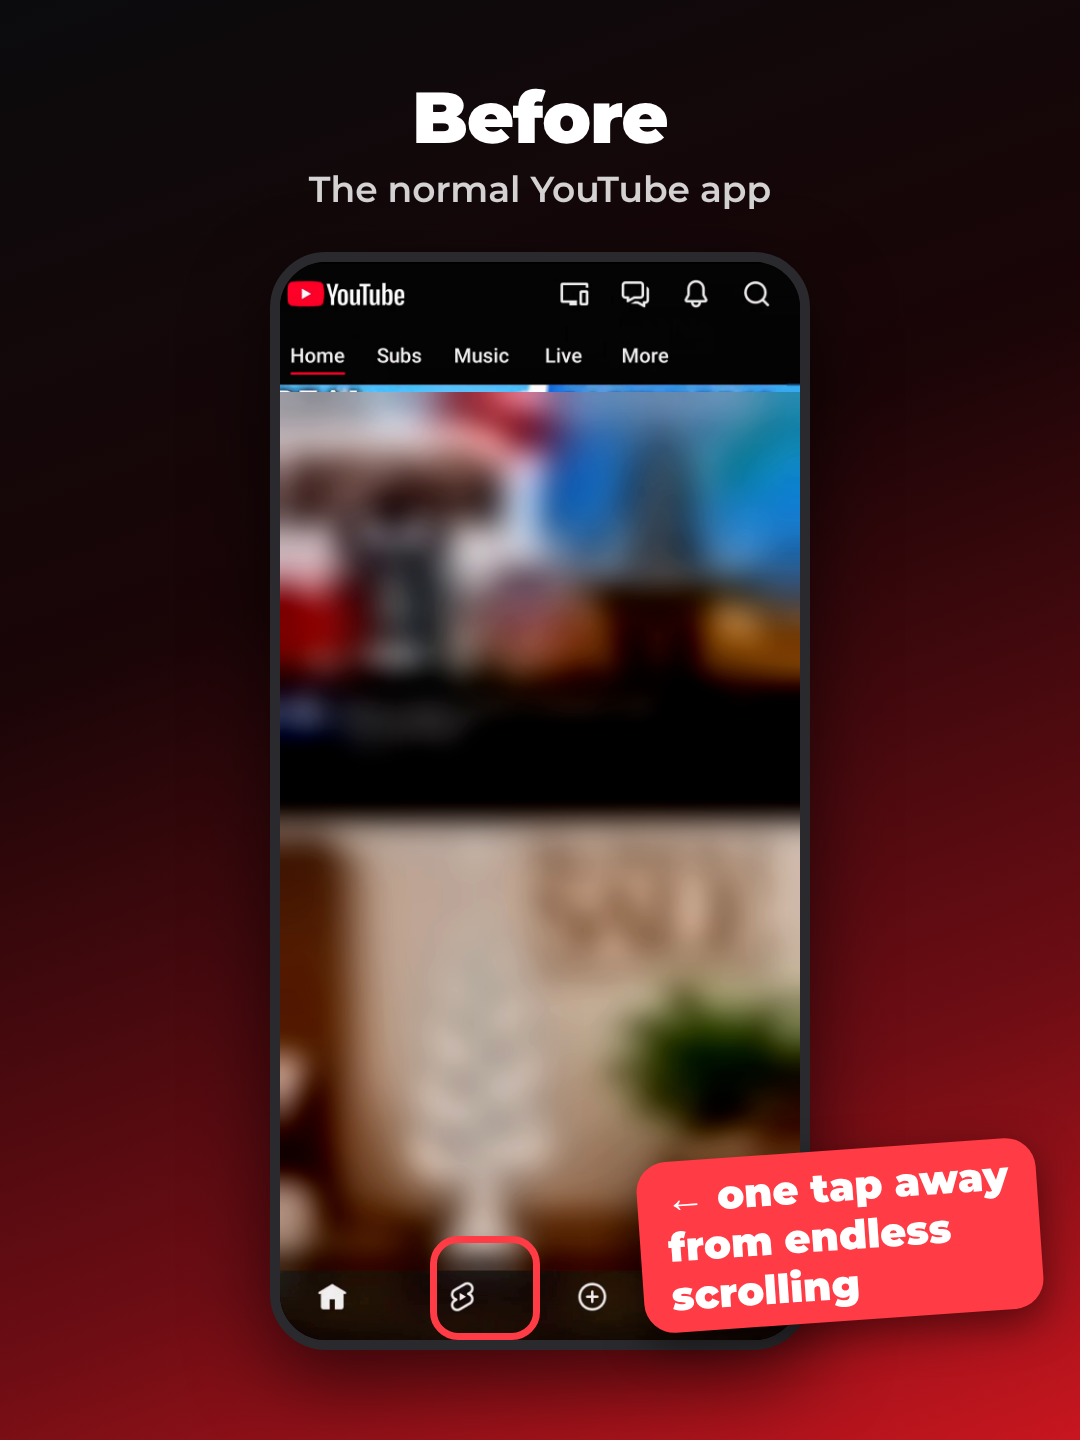
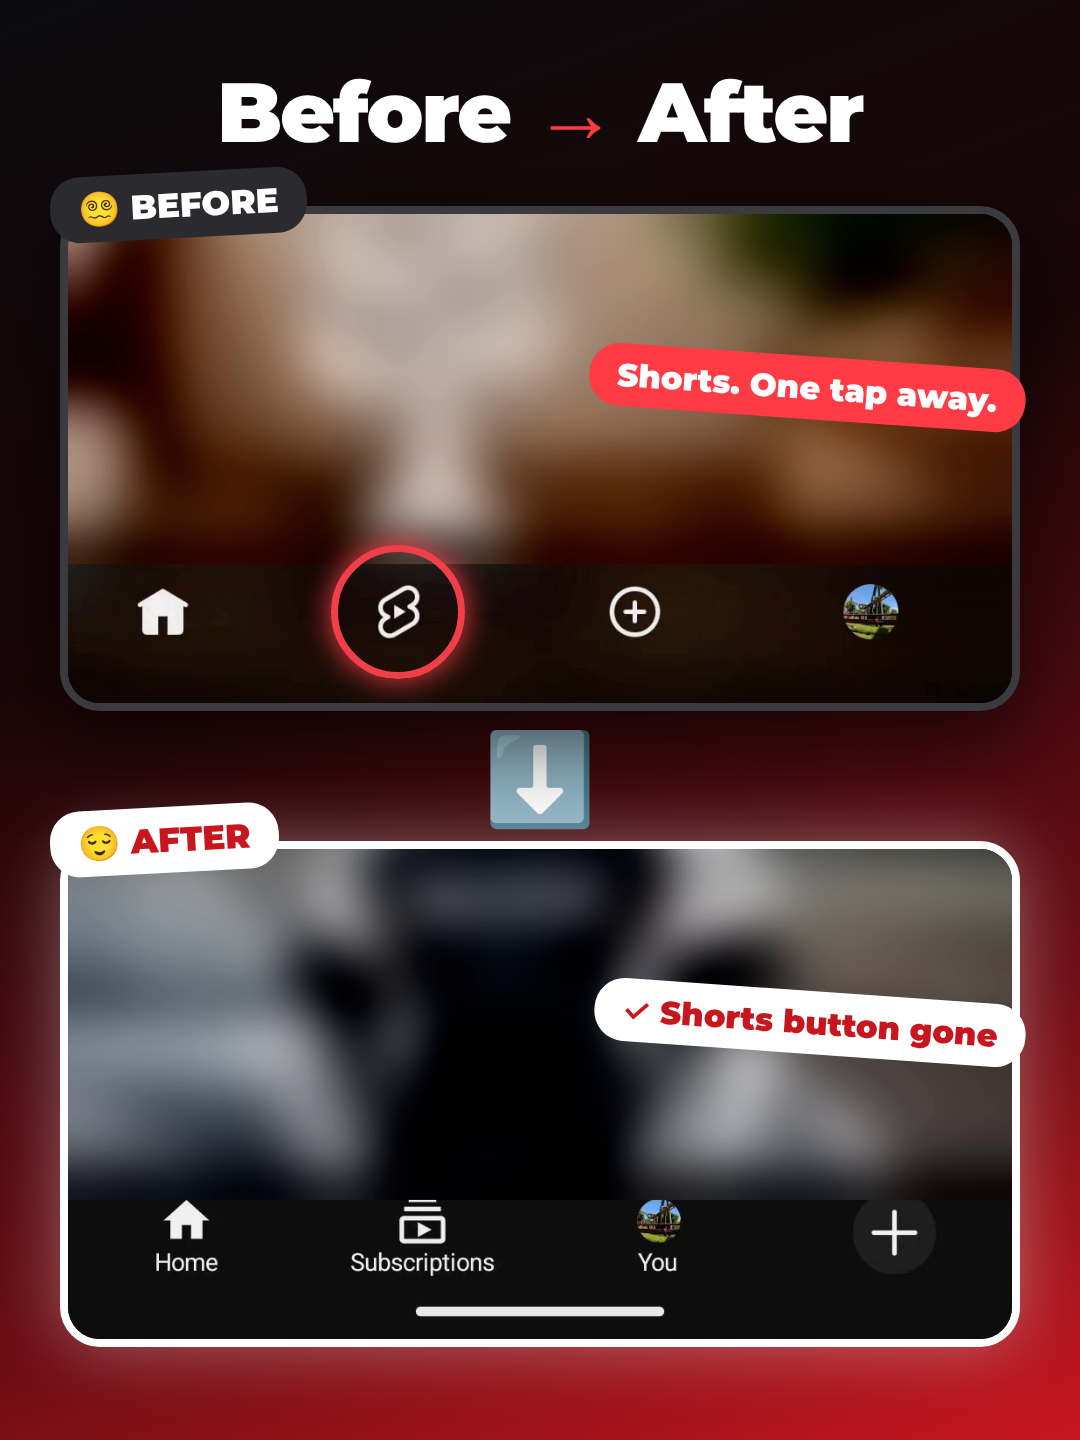
Marketing carousel: simpler slide 2, before/after on one slide, circle fixed
Claude-Session: https://claude.ai/code/session_01YU23RwEqoDKe6tHmapC4V3

diff --git a/marketing/carousel-android/slides.html b/marketing/carousel-android/slides.html
@@ -40,46 +40,37 @@ h2{font-weight:900;font-size:72px;line-height:1.05;text-align:center;letter-spac
 </section>
 <!-- 2 -->
 <section class="s" id="s2">
- <div style="flex:.6"></div>
- <div class="pill">WHAT MOST PEOPLE TRY</div>
- <div style="height:50px"></div>
- <h2 style="font-size:84px">“Show fewer Shorts”</h2>
- <div style="height:30px"></div>
- <div class="sub">Tap ⋮ on a Shorts shelf →<br>“Show fewer Shorts”.</div>
- <div style="height:70px"></div>
- <div class="card">
-  <div class="row"><div class="x">✕</div>Hides one shelf on your feed</div>
-  <div class="row"><div class="x">✕</div>The Shorts button stays in the bottom bar</div>
-  <div class="row"><div class="x">✕</div>One tap and you're scrolling again</div>
- </div>
- <div style="height:90px"></div>
- <h2 style="font-size:70px">It helps a little.<br><span class="red">It doesn't fix it.</span></h2>
  <div style="flex:1"></div>
+ <div class="sub" style="font-size:44px;color:#fff;font-weight:800">YouTube's only option:</div>
+ <div style="height:40px"></div>
+ <div class="btn" style="font-size:56px;background:rgba(255,255,255,.1);color:#fff;border:3px solid rgba(255,255,255,.35)">“Show fewer Shorts”</div>
+ <div style="height:110px"></div>
+ <div style="font-size:150px;line-height:1">❌</div>
+ <div style="height:40px"></div>
+ <h1 style="font-size:92px">The Shorts button<br><span class="red">stays.</span></h1>
+ <div style="flex:1.2"></div>
 </section>
 <!-- 3 -->
-<section class="s" id="s3" style="padding-top:80px">
- <h2>Before</h2>
- <div style="height:10px"></div>
- <div class="sub" style="font-size:36px">The normal YouTube app</div>
- <div style="height:40px"></div>
- <div class="phone" style="width:540px"><img src="before.png">
-  <div style="position:absolute;left:150px;bottom:0px;width:110px;height:104px;border:7px solid #ff3b45;border-radius:28px"></div>
+<section class="s" id="s3" style="padding:70px 60px 60px">
+ <h1 style="font-size:84px">Before <span class="red">→</span> After</h1>
+ <div style="height:50px"></div>
+ <div style="position:relative;width:960px">
+  <div class="tag" style="position:absolute;left:-10px;top:-34px;z-index:3;background:#2b2b2f;color:#fff;font-size:34px;transform:rotate(-3deg)">😵💫 BEFORE</div>
+  <div class="phone" style="width:960px;border-radius:40px;border:8px solid #3a3a3f;filter:saturate(.9)"><img src="b_crop.png">
+   <div style="position:absolute;left:263px;top:331px;width:134px;height:134px;border:7px solid #ff3b45;border-radius:50%;box-shadow:0 0 30px #ff3b45"></div>
+  </div>
+  <div class="tag" style="position:absolute;right:-6px;top:150px;z-index:3;background:#ff3b45;color:#fff;font-size:32px;transform:rotate(4deg)">Shorts. One tap away.</div>
  </div>
- <div class="tag" style="left:640px;top:1150px;background:#ff3b45;color:#fff;transform:rotate(-4deg);font-size:40px;box-shadow:0 14px 40px rgba(0,0,0,.5)">← one tap away<br>from endless<br>scrolling</div>
-</section>
-<!-- 4 -->
-<section class="s" id="s4" style="padding-top:80px">
- <h2>After</h2>
- <div style="height:10px"></div>
- <div class="sub" style="font-size:36px">Same app, with F*ck Shorts</div>
- <div style="height:40px"></div>
- <div class="phone" style="width:540px"><img src="after.png">
-  <div style="position:absolute;left:8px;right:8px;bottom:0px;height:104px;border:7px solid #fff;border-radius:28px"></div>
+ <div style="font-size:90px;line-height:1;margin:22px 0 18px">⬇</div>
+ <div style="position:relative;width:960px">
+  <div class="tag" style="position:absolute;left:-10px;top:-34px;z-index:3;background:#fff;color:#C8161F;font-size:34px;transform:rotate(-3deg)">😌 AFTER</div>
+  <div class="phone" style="width:960px;border-radius:40px;border:8px solid #fff;box-shadow:0 0 70px rgba(255,255,255,.35)"><img src="a_crop.png"></div>
+  <div class="tag" style="position:absolute;right:-6px;top:150px;z-index:3;background:#fff;color:#C8161F;font-size:32px;transform:rotate(4deg)">✓ Shorts button gone</div>
  </div>
- <div class="tag" style="left:565px;top:560px;background:#fff;color:#C8161F;transform:rotate(3deg);font-size:31px;white-space:nowrap;padding:22px 30px;box-shadow:0 14px 40px rgba(0,0,0,.5);line-height:1.6">✓ Shorts button gone<br>✓ Shorts close instantly<br>✓ Shorts shelves hidden<br>✓ Home, Subs, You stay</div>
+ <div style="flex:1"></div>
 </section>
 <!-- 5 -->
-<section class="s" id="s5">
+<section class="s" id="s4">
  <div style="flex:.7"></div>
  <div class="pill">HOW IT WORKS</div>
  <div style="height:50px"></div>
@@ -95,7 +86,7 @@ h2{font-weight:900;font-size:72px;line-height:1.05;text-align:center;letter-spac
  <div style="flex:1"></div>
 </section>
 <!-- 6 -->
-<section class="s" id="s6">
+<section class="s" id="s5">
  <div style="flex:1"></div>
  <svg class="logo" width="220" height="220" viewBox="0 0 100 100"><rect x="29" y="20" width="42" height="60" rx="9" fill="#fff"/><line x1="27" y1="80" x2="75" y2="22" stroke="#E5172B" stroke-width="15" stroke-linecap="round"/><line x1="27" y1="80" x2="75" y2="22" stroke="#fff" stroke-width="6.5" stroke-linecap="round"/></svg>
  <div style="height:44px"></div>

diff --git a/marketing/carousel-android/render.js b/marketing/carousel-android/render.js
@@ -1,5 +1,5 @@
 const {chromium}=require('playwright');
 (async()=>{const b=await chromium.launch();const p=await b.newPage({viewport:{width:1080,height:1440},deviceScaleFactor:1});
 await p.goto('file://'+process.argv[2]);await p.waitForTimeout(800);
-for(let i=1;i<=6;i++){await p.locator('#s'+i).screenshot({path:process.argv[3]+'/slide'+i+'.png'});}
+for(let i=1;i<=5;i++){await p.locator('#s'+i).screenshot({path:process.argv[3]+'/slide'+i+'.png'});}
 await b.close();})();
